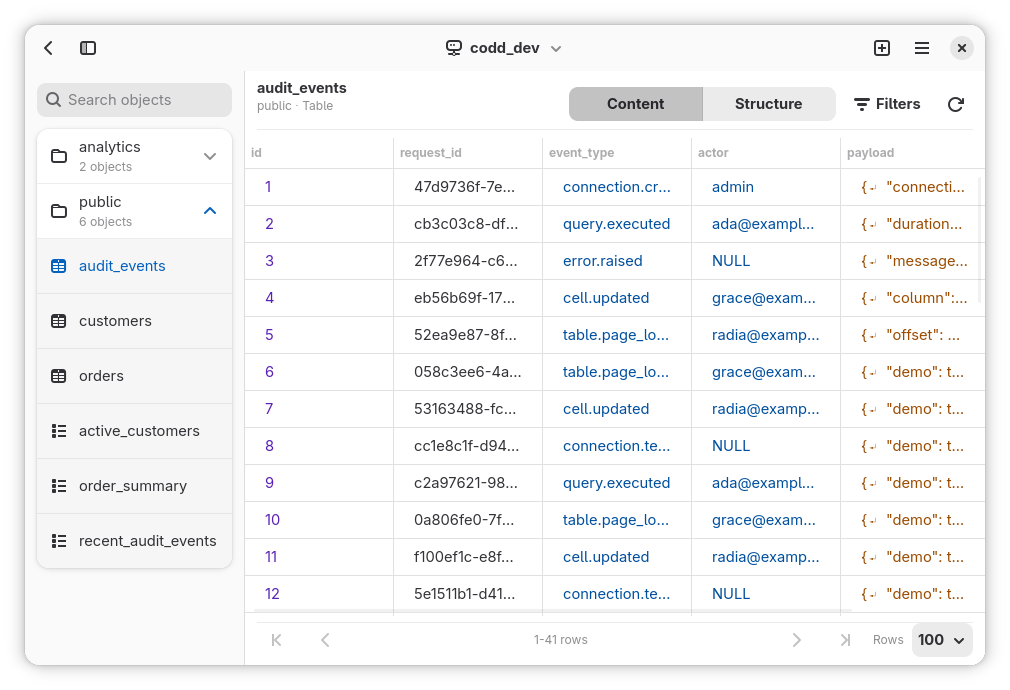
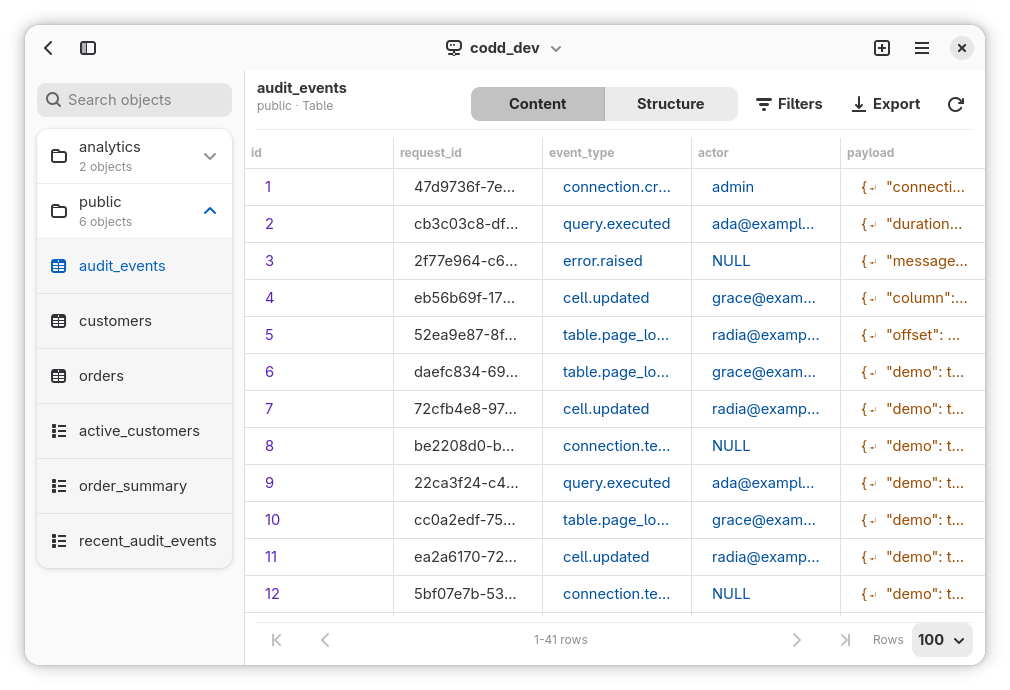
Release 0.7.0

diff --git a/README.md b/README.md
@@ -2,7 +2,7 @@
 
 Codd is a lightweight native PostgreSQL client for GNOME, built with Rust, Relm4, GTK4, libadwaita, GtkSourceView and sqlx. It is named after Edgar F. Codd, the computer scientist who introduced the relational model for database management.
 
-![Codd query editor](images/screenshot-query-5.1.png)
+![Codd query editor](images/screenshot-query-7.0.png)
 
 [![Get it on Flathub](https://flathub.org/api/badge?locale=en)](https://flathub.org/apps/io.github.anil_e.Codd)
 
@@ -17,6 +17,7 @@ The app started as a personal-use SQL editor: lightweight, native, focused, and 
 - Write SQL with syntax highlighting and line numbers
 - Reuse automatically saved query history per database
 - Browse table rows with pagination, filters, custom SQL filters, and editable cell values
+- Export results as CSV
 - Generate common table scripts from the object sidebar
 - Rename, truncate, and delete tables or views from the object sidebar
 
